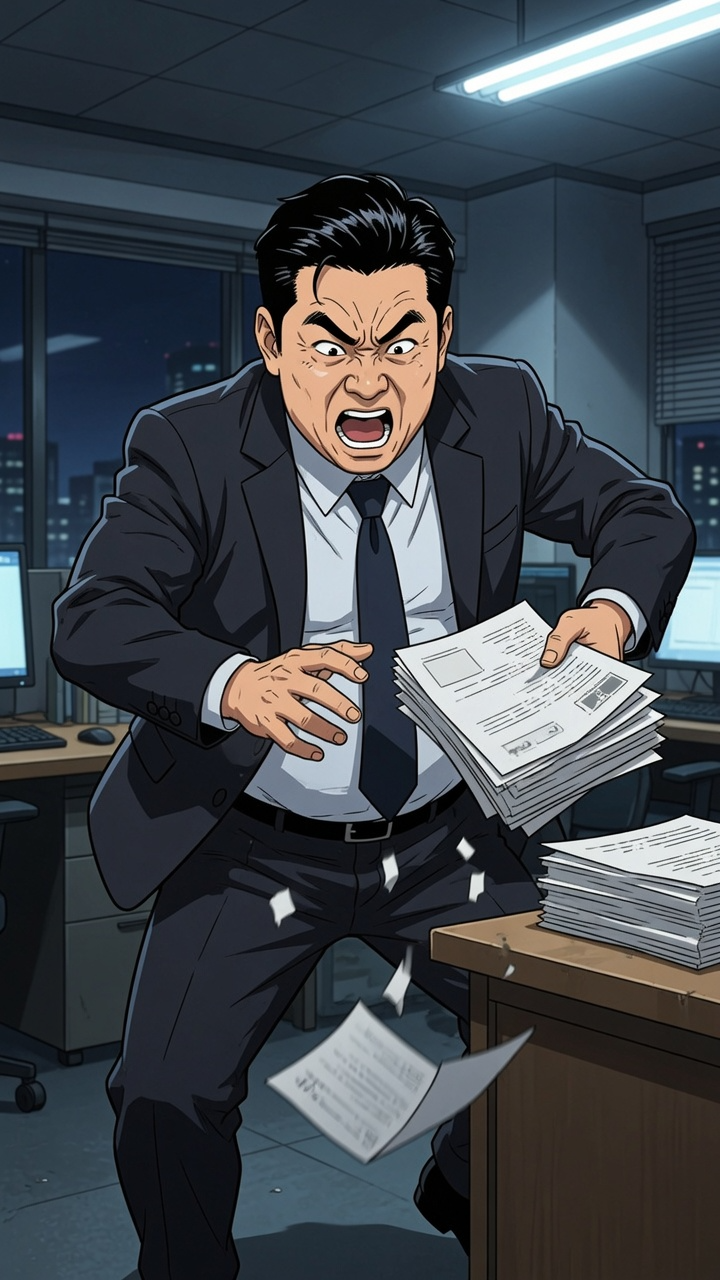
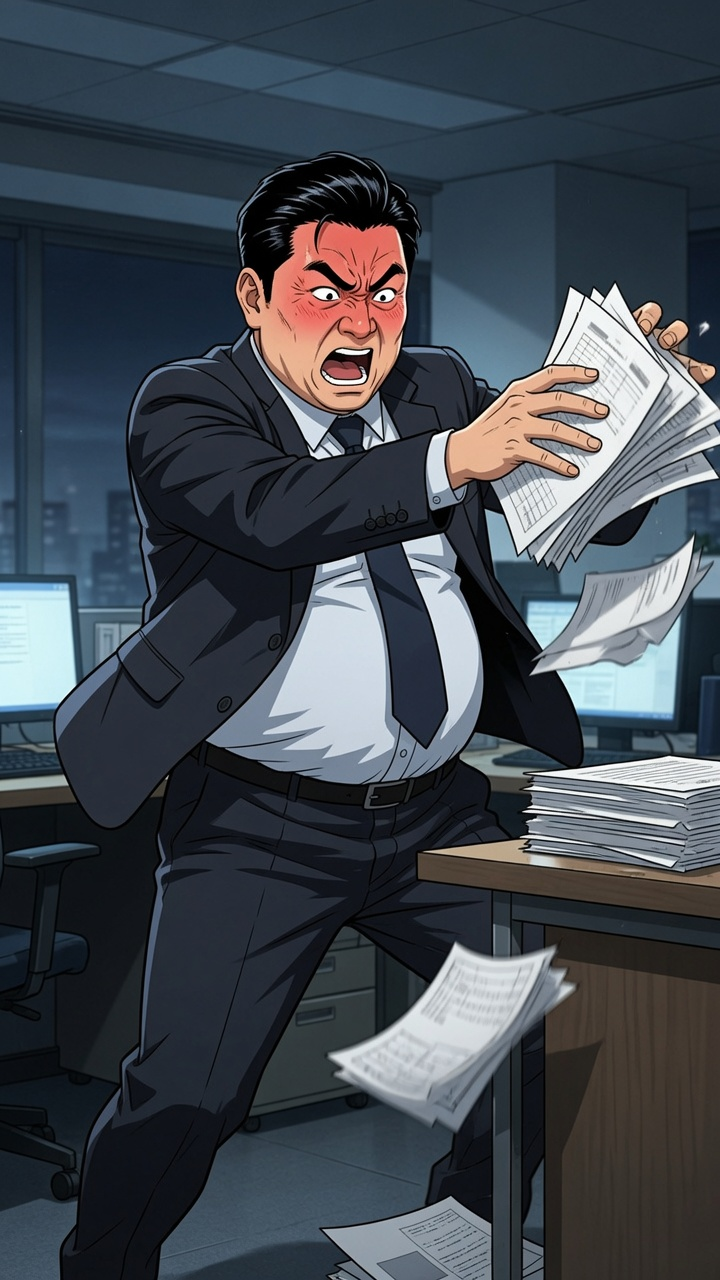
feat: 新增第1集配音音效对照表文件，剪映直接对照用

diff --git a/AI漫剧_打工人逆袭爽剧/06_提示词库/第1集配音音效对照表.md b/AI漫剧_打工人逆袭爽剧/06_提示词库/第1集配音音效对照表.md
@@ -1,0 +1,23 @@
+# 第1集配音+音效对照表（剪映直接对照用）
+按镜头顺序排列，配音直接复制文字选对应音色，音效直接搜关键词
+---
+| 镜头号 | 类型 | 内容/搜索关键词 | 音色/备注 |
+| --- | --- | --- | --- |
+| 1 | 音效 | 键盘打字、打哈欠 | 音量调小，作为背景音 |
+| 2 | 音效 | 文件摔落 | 张彪摔文件的声音 |
+| 3 | 配音 | 今晚加个班，明天早上要，年轻人多锻炼 | 中年油腻音（张彪） |
+| 4 | 配音 | 又来？ | 清爽青年音（林辰，内心OS语气） |
+| 5 | 音效 | 电子提示音（叮） | 系统激活的提示音 |
+| 6 | 配音 | 检测到职场PUA，任务：拒绝无偿加班，奖励3倍加班费 | 机械电子音（系统） |
+| 7 | 配音 | 张总，加班可以，3倍加班费，劳动法规定的 | 清爽青年音（林辰） |
+| 8 | 配音 | 你跟我谈劳动法？不想干了？ | 中年油腻音（张彪） |
+| 9 | 配音 | 违法辞退要赔2N，我月薪3万，赔我6万就行 | 清爽青年音（林辰） |
+| 10 | 配音 | 你！你！ | 中年油腻音（张彪，气到结巴语气） |
+| 11 | 音效 | 电脑关机 | 林辰按电源的声音 |
+| 12 | 配音 | 你敢走明天就别来了！ | 中年油腻音（张彪，大喊语气） |
+| 13 | 配音 | 记得开辞退通知书，我正好去仲裁 | 清爽青年音（林辰，带点笑的语气） |
+| 14 | 音效 | 关门 | 办公室门关上的声音 |
+| 15 | 音效 | 纸张散落、喘气 | 张彪摔文件生气的声音 |
+| 16 | 音效 | 到账提示音 | 银行卡到账1800的声音 |
+| 17 | 配音 | 任务完成，3倍加班费已到账 | 机械电子音（系统） |
+| 18 | BGM | 爽文爽剧BGM | 音量-20db，从镜头18开始渐入，到结尾 |